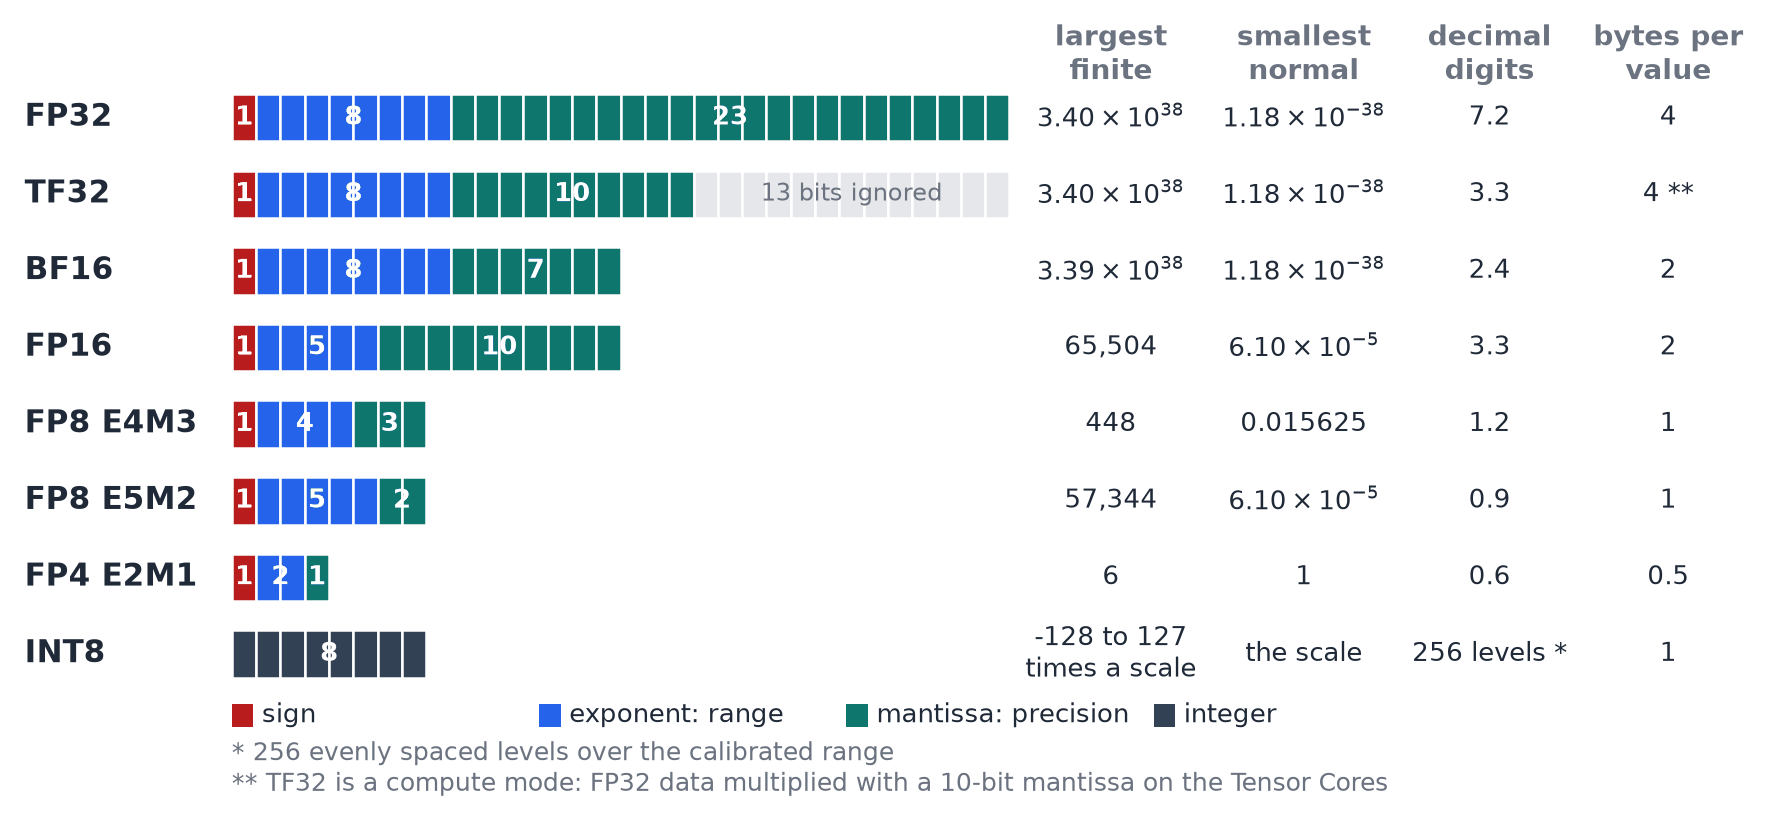
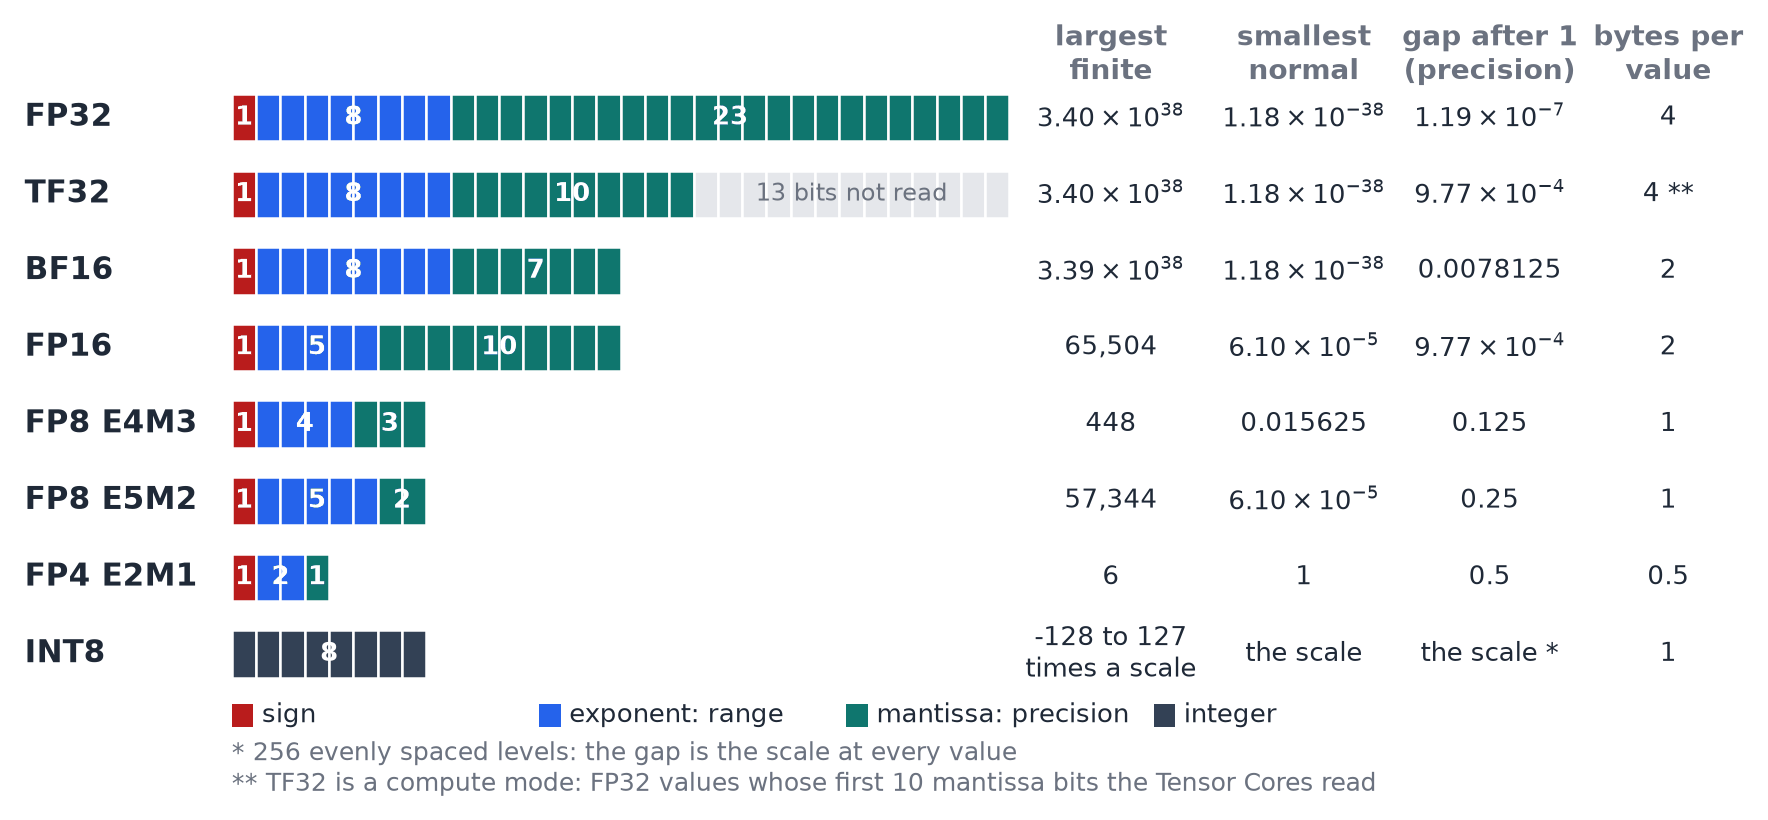
[DOCS] Move Number Formats to the top of the Deployment section as a ### section that teaches the formats: the fields of a floating-point number with the FP16 bits of the pixel coordinate 1000.3 decoded in an animation (README/number_format_decoding.gif), one part per format (FP32, TF32, BF16, FP16,
Claude-Session: https://claude.ai/code/session_016uCt2XTu9R5KcJCjGynGL8

diff --git a/README.md b/README.md
@@ -29,6 +29,7 @@
 - [MLflow Tracking](#mlflow-tracking)
 - [Tutorials](#tutorials)
 - [Deployment](#deployment)
+  - [Number Formats](#number-formats)
   - [Export](#export)
   - [Input Contract](#input-contract)
   - [Triton Server](#triton-server)
@@ -899,6 +900,108 @@ Should you look for what the videos do not show yet, `documentation/tutorial_bac
 
 ## Deployment
 
+### Number Formats
+Before you pick the precision of a served model (`tensorrt_precision` of the [export](#export)) or read why the trainings compute in BF16, this section shows what each number format stores, why it exists, where the repository uses it and what it does to the values of a classifier and a detector. A **bit** is a 0 or a 1, and a format packs every number into a fixed number of bits, from 32 for FP32 down to 4 for FP4: it holds a finite set of values and rounds every other number to the nearest of them. Fewer bits mean less memory to read and faster arithmetic, for a coarser rounding or a smaller range.
+
+#### What A Floating-Point Number Is
+To be able to read the tables of this section, start from how a floating-point format writes a number. Its bits form three fields:
+- the **sign**, one bit: 0 for a positive number, 1 for a negative one;
+- the **exponent**, which picks a power of two: its bits set the **range**, how large and how small a number can get;
+- the **mantissa**, which places the number between that power of two and the next one in equal steps: its bits set the **precision**, how finely neighbouring numbers are spaced.
+
+The value of a normal number is (-1)^sign x 2^(exponent - bias) x (1 + mantissa / 2^m), m being the number of mantissa bits and the bias (15 in FP16) letting the exponent field stand for negative powers too. The pixel coordinate 1000.3 of a 1024-pixel detector input, decoded from the FP16 bits PyTorch stores for it (0x63D1):
+
+<p align="center">
+  <img src="README/number_format_decoding.gif" width="100%" />
+</p>
+
+The 10 mantissa bits of FP16 split the interval between two powers of two into 1,024 equal steps: from 512 to 1024 the **gap** between two neighbouring values is 512 / 1024 = 0.5, so 1000.3 is stored as 1000.5. The gap doubles at every power of two, so the rounding error stays below one part in 2,048 of the value at any magnitude, and the **gap after 1**, the distance from 1 to the next value, gives the precision of a format (0.000977 for FP16). Two limits close the range: a number above the largest value **overflows** to infinity (inf), and a number below the smallest normal value is stored as a **subnormal**, with fewer significant bits, then as 0.
+
+#### The Formats One By One
+If you are looking for what a name such as BF16 or E4M3 stands for, each format below gives its full name, its bits, its largest value and its gap after 1, why it exists, where the repository uses it and when to choose it. The bits are drawn to scale, one cell per bit:
+
+<p align="center">
+  <img src="README/number_formats.png" width="100%" />
+</p>
+
+- **FP32, single precision** (1 + 8 + 23 bits, largest 3.40 x 10^38, gap after 1 1.19 x 10^-7). The default format of PyTorch and the reference of the repository: the weights of every model (`MODEL_DTYPE` of `vision_training/models/model_registry.py`), the test evaluation, and the inputs and outputs of every export (`TYPE_FP32` in `config.pbtxt`). It rounds too, at the eighth significant digit: 1000.3 is stored as 1000.29998779. Keep it for anything compared with a threshold.
+- **TF32, TensorFloat-32** (1 + 8 + 10 bits, largest 3.40 x 10^38, gap after 1 0.000977). A compute mode of the NVIDIA **Tensor Cores**, the GPU units that multiply small blocks of matrices in one instruction, and not a storage type: the values stay FP32 in memory, the Tensor Cores read their sign, their exponent and the first 10 of their 23 mantissa bits, and add the products in FP32 (the **accumulation**, the running sum of a convolution or a matrix multiplication). It runs FP32 code on the Tensor Cores without a change, with the range of FP32 and the precision of FP16. PyTorch leaves it on for convolutions (`torch.backends.cudnn.allow_tf32` is True, `torch.backends.cuda.matmul.allow_tf32` False), so the eager model in the process computes its convolutions in TF32, and TensorRT allows it in "FP32" engines. Choose it for speed, not when two runtimes must match: `export_experiment` of `vision_training/deployment/export_model.py` turns both switches off while it exports and checks, then restores them.
+- **BF16, bfloat16 ("brain floating point")** (1 + 8 + 7 bits, largest 3.39 x 10^38, gap after 1 0.0078125). The first 16 bits of an FP32 number: the range of FP32 in 2 bytes, so a value that fits FP32 fits BF16, rounded to about 2.4 significant decimal digits. Every training and validation forward pass runs under `torch.autocast(..., dtype=torch.bfloat16)` in `run_model_iteration` of `vision_training/trainers/base_trainer.py`: **autocast** computes the convolutions and matrix multiplications in BF16 and keeps the weights, and the operations PyTorch lists as needing precision such as softmax and the losses, in FP32; the test evaluation runs in FP32. Between 512 and 1024 its gap is 4 pixels, so 1000.3 becomes 1000. It is not servable through the ONNX Runtime backend of Triton ([What Is Exported Today](#what-is-exported-today)). Choose it for training; keep thresholds and post-processing in FP32.
+- **FP16, half precision** (1 + 5 + 10 bits, largest 65,504, gap after 1 0.000977). Eight times finer than BF16 near any value, for 3 fewer exponent bits: it overflows above 65,504 and stores values below 6.10 x 10^-5 as subnormals. `tensorrt_precision = "FP16"` in the main block of `export_model.py` writes `precision_mode` "FP16" into `config.pbtxt` (`write_triton_configuration` of `triton_configuration.py`), TensorRT then running FP16 kernels where it finds them faster; the export check never runs that engine. 1000.3 becomes 1000.5 and the area of a 256 x 256 box, 65,536, becomes inf. Choose it to serve CLS and M2M (within 0.03 points of the eager model at 1.9 times the images of TensorRT FP32, [Serving Benchmark Results](#serving-benchmark-results)) once no value inside the model can pass 65,504.
+- **FP8, E4M3 and E5M2** (1 + 4 + 3 bits: largest 448, gap after 1 0.125; 1 + 5 + 2 bits: largest 57,344, gap after 1 0.25). One byte per value, the name counting the exponent (E) and mantissa (M) bits: E4M3 keeps one more mantissa bit, E5M2 the range of FP16, and the TensorRT [quantized types](https://docs.nvidia.com/deeplearning/tensorrt/10.x.x/inference-library/work-quantized-types.html) list E4M3, through explicit quantization only. Without a [scale](#scales-for-int8-and-fp8), the values of a model fall outside or between their few steps: E4M3 has no infinity and PyTorch clamps 1000.3 to 448, E5M2 rounds it to 1,024, and both store 1e-6 as 0. Not implemented: FP8 is not a `precision_mode` of the ONNX Runtime backend.
+- **INT8, 8-bit integer** (8 bits, -128 to 127). Not a floating-point format: 256 evenly spaced levels that a [scale](#scales-for-int8-and-fp8) turns into values, run by the integer Tensor Cores in 1 byte. Not implemented: TensorRT needs [Q/DQ nodes or a calibration table](#scales-for-int8-and-fp8), implicit calibration being deprecated since TensorRT 10.1.
+- **FP4 E2M1** (1 + 2 + 1 bits: 0, 0.5, 1, 1.5, 2, 3, 4 and 6 and their negatives; gap after 1 0.5). Half a byte per value; the published 1 petaFLOP of the [DGX Spark](https://www.nvidia.com/en-us/products/workstations/dgx-spark/) is a theoretical FP4 figure with sparsity. Without a scale, 0.1 becomes 0 and 1000.3 becomes 6. Not implemented.
+
+Block floating point (BFP), where one exponent is shared by a block of values as in the MX formats, is not BF16 and is not used in this repository.
+
+#### The Same Values In Every Format
+Suppose a class threshold, a detector coordinate, two box areas, a box offset and a weight update of the repository are stored in each format: PyTorch 2.14 holds them as follows, written with up to 6 significant digits, or 7 when that is exact (`torch.float16`, `torch.bfloat16`, `torch.float8_e4m3fn` and `torch.float8_e5m2`; the TF32 column rounds the FP32 mantissa to 10 bits, to the nearest value, ties to even).
+
+| Value of the repository | FP32 | TF32 | BF16 | FP16 | FP8 E4M3 | FP8 E5M2 |
+|---|---|---|---|---|---|---|
+| Class threshold 0.999 | 0.999 | 0.999023 | **1** | 0.999023 | 1 | 1 |
+| Pixel coordinate 1000.3 of a 1024-pixel input | 1,000.3 | 1,000.5 | 1,000 | 1,000.5 | 448 | 1,024 |
+| Area of a 256 x 256 box, 65,536 | 65,536 | 65,536 | 65,536 | **inf** | 448 | inf |
+| Area of a 300 x 300 box, 90,000 | 90,000 | 89,984 | 90,112 | inf | 448 | inf |
+| Box offset 0.1 | 0.1 | 0.0999756 | 0.100098 | 0.0999756 | 0.1015625 | 0.09375 |
+| Weight update 1e-6 | 1e-6 | 1.00024e-6 | 9.98378e-7 | 1.01328e-6 (subnormal) | 0 | 0 |
+| Weight 0.1 after that update | **0.100001** | 0.0999756 | 0.100098 | 0.0999756 | 0.1015625 | 0.09375 |
+
+The same values on the number line of every format, with the gap of the format around each one:
+
+<p align="center">
+  <img src="README/number_format_examples.png" width="100%" />
+</p>
+<p align="center"><em>Every lane holds the values of one format (ticks, or a bar where they are too close to draw apart); the dot is the stored value, and an arrow marks a value stored outside the window: 448 for E4M3, which has no infinity, inf above the largest value, 0 below the smallest.</em></p>
+
+The gap of each format at every magnitude, from 10^-6 to 10^7:
+
+<p align="center">
+  <img src="README/number_format_rounding.png" width="100%" />
+</p>
+<p align="center"><em>Gap between neighbouring representable values: a value is rounded by up to half of it, and the format overflows past the cross. The dotted lines mark values of this repository: a class threshold, a pixel coordinate of a 1024-pixel input and the area of a 256 x 256 box.</em></p>
+
+#### What These Numbers Mean
+Each time a model moves to a reduced precision, check its values against these cases of the repository:
+- **BF16 turns the threshold 0.999 into 1.** Near 1 its values are 0.99609375 and 1, so the probabilities 0.9985 and 0.9995 both read 1 and a threshold of 0.999 can no longer separate them: thresholds, such as those of the logit temperature of the [export](#export), and post-processing stay in FP32, as the test evaluation does.
+- **FP16 makes the area of a 256 x 256 box infinite.** The NMS exported inside the detector overflowed FP16 twice: its greedy NMS moved the boxes of every image and class apart by about 1,025 pixels per group, so the coordinates passed 65,504 from about the 64th group and duplicates stayed (run_9 lost 7.88 points of mAP@0.5 with TensorRT FP16), and its DIoU-NMS computed areas in pixels, infinite from 256 x 256 pixels. One NonMaxSuppression batch per group (`suppress_stacked_groups` of `vision_training/models/detection/postprocessing.py`) and boxes in fractions of the image fixed both, the FP16 engine then reading +0.21 points against the eager model ([Serving Benchmark Results](#serving-benchmark-results)). Every sum, area or offset computed inside a model served in FP16 must stay below 65,504.
+- **TF32 moves scores by about 1e-3.** That is ten times the 1e-4 the export accepts on probabilities and scores (`comparison_tolerances` of `vision_training/deployment/export_specifications.py`), so `export_experiment` turns TF32 off and compares the exports with an eager reference in exact FP32 (its comment on `allow_tf32`).
+- **A weight update of 1e-6 vanishes in a 16-bit weight.** Added to a weight of 0.1, it leaves the BF16 and FP16 weight unchanged, their gaps there being 0.000488 and 0.000061, while FP32 holds 0.100001: autocast keeps the weights in FP32 and computes only the forward passes in BF16.
+- **INT8 and FP8 need a scale.** Stored as they are, 0.1 becomes 0.1016 in E4M3 and 0 as an integer; with one scale for a tensor between -6 and 6, INT8 stores it as 2 and reads it back as 0.0945 ([Scales For INT8 And FP8](#scales-for-int8-and-fp8)).
+
+#### Scales For INT8 And FP8
+Should a model run in INT8 or FP8, every tensor first needs a **scale**, the number its stored values are multiplied by to give back real values:
+- **Scale.** For a tensor whose values stay between -6 and 6, the scale 6 / 127 = 0.0472 maps 6 to the integer 127: 0.1 is stored as round(0.1 / 0.0472) = 2 and read back as 0.0945, 2.5 as 53 and read back as 2.504, every value moving by at most half the scale, 0.0236. TensorRT rounds to the nearest integer, ties to even, and clips to -128 and 127.
+- **Zero point.** An integer added to the stored values so that a range not centred on 0, such as 0 to 6 after a ReLU, uses all 256 levels. TensorRT quantizes symmetrically, with a scale only.
+- **Per tensor or per channel.** One scale for a whole tensor suits activations; weights get one scale per output channel, as TensorRT recommends. After folding its batch normalization into the weights, as TensorRT and ONNX Runtime do, the first convolution of the second backbone block of the README classifier (`backbone.convolution_blocks.1`, 32 output channels) has a largest weight of 0.24 in its narrowest channel and of 1.88 in its widest: one scale for the tensor leaves the narrowest channel 16 of the 127 positive levels, one scale per channel gives every channel all 127.
+- **Calibration.** Choosing the scales of the activations from data: TensorRT runs representative images through the model, about 500 for an ImageNet classifier, and records the range of every tensor. This implicit quantization is deprecated since TensorRT 10.1.
+- **Q/DQ nodes.** QuantizeLinear and DequantizeLinear nodes written into the ONNX graph, each with its scale, marking where a tensor becomes INT8 or FP8 and where it returns to a wider format; TensorRT converts exactly where they say (explicit quantization), the only path to FP8 and FP4.
+
+None of this is implemented: the export writes neither Q/DQ nodes nor a calibration table, `tensorrt_precision` documents only "FP32", "FP16" and None (the temperature explorer refuses any other value), the ONNX Runtime backend of Triton has no FP8 `precision_mode`, and the export check never runs a TensorRT engine ([What Is Exported Today](#what-is-exported-today)).
+
+#### Summary Of The Formats
+In case you need the facts of one format again, here they are, computed by PyTorch (TF32 and FP4 from their bit layouts):
+
+| Format | Full name | Bits (sign + exponent + mantissa) | Largest value | Gap after 1 | Used in this repository for |
+|---|---|---|---|---|---|
+| FP32 | single precision (IEEE 754 binary32) | 1 + 8 + 23 | 3.40 x 10^38 | 1.19 x 10^-7 | weights, test evaluation, post-processing, inputs and outputs of every export |
+| TF32 | TensorFloat-32 | 1 + 8 + 10, read from FP32 values | 3.40 x 10^38 | 0.000977 | convolutions of the eager model (PyTorch default) and TensorRT "FP32" engines; off in the export |
+| BF16 | bfloat16, "brain floating point" | 1 + 8 + 7 | 3.39 x 10^38 | 0.0078125 | training and validation forward passes (autocast of `base_trainer.py`) |
+| FP16 | half precision (IEEE 754 binary16) | 1 + 5 + 10 | 65,504 | 0.000977 | `tensorrt_precision = "FP16"`, served without check |
+| FP8 E4M3 | 8-bit floating point, 4 exponent bits, 3 mantissa bits | 1 + 4 + 3 | 448 | 0.125 | not implemented |
+| FP8 E5M2 | 8-bit floating point, 5 exponent bits, 2 mantissa bits | 1 + 5 + 2 | 57,344 | 0.25 | not implemented |
+| INT8 | 8-bit integer | 8 (integer) | 127 times the scale | the scale | not implemented |
+| FP4 E2M1 | 4-bit floating point, 2 exponent bits, 1 mantissa bit | 1 + 2 + 1 | 6 | 0.5 | not implemented |
+
+#### Weight Memory And Bandwidth
+For a served model to read less memory at every request, a reduced precision also shrinks its weights and activations. The weights of four saved runs, counted from their model state (weights and batch normalization statistics):
+
+<p align="center">
+  <img src="README/model_weight_sizes.png" width="100%" />
+</p>
+
+The DGX Spark gives its GPU 273 GB/s of memory bandwidth shared with the CPU ([specifications](https://www.nvidia.com/en-us/products/workstations/dgx-spark/)), so halving the bytes of weights and activations halves the traffic of a memory-bound layer; TensorRT FP16 serves 1.9 times the images of TensorRT FP32 at batch 16 on CLS and M2M, and DET serves 189 images per second with both since the fix of its exported NMS ([Serving Benchmark Results](#serving-benchmark-results)).
+
 ### Export
 When a run is ready to be served, `vision_training/deployment/export_model.py` writes it to the Triton model repository as TorchScript and ONNX, with the Triton configuration of every model, and checks every export against the PyTorch model, the served models being replaced only once every format matches. Set `experiment_folder`, `iteration`, `use_averaged_weights`, `formats`, `maximum_batch_size` and `tensorrt_precision` (`"FP16"`, `"FP32"`, or `None` for ONNX Runtime CUDA only) in its main block, then run:
 
@@ -964,7 +1067,7 @@ docker compose up
 <p align="center"><em>The 9-class README classifier (512 pixels) exported with TensorRT FP32, measured on 2026-10-23 while three trainings shared the GPU (item 28 of <code>documentation/suggestions.md</code>): lower than the model gives alone, to measure again on an idle GPU.</em></p>
 
 ### Serving Formats And Precision
-Before a model goes to production, its serving path and its number format decide its latency, its throughput, its memory and how far its outputs move from the FP32 model that was evaluated. This part states what the repository exports today, what Triton, TensorRT and the reduced precisions add and cost on the DGX Spark of the measurements (GB10 GPU; the Triton image `26.01-py3` ships Triton 2.65.0, CUDA 13.1.1 and TensorRT 10.14.1, [release notes](https://docs.nvidia.com/deeplearning/triton-inference-server/archives/triton-inference-server-2670/release-notes/rel-26-01.html)), and what the [serving benchmark](documentation/architecture_benchmarking/serving_benchmark_plan.md) of 2026-11-17 measured on the idle GPU.
+Before a model goes to production, its serving path and its number format decide its latency, its throughput, its memory and how far its outputs move from the FP32 model that was evaluated. This part states what the repository exports today, what Triton, TensorRT and the [reduced precisions](#number-formats) add and cost on the DGX Spark of the measurements (GB10 GPU; the Triton image `26.01-py3` ships Triton 2.65.0, CUDA 13.1.1 and TensorRT 10.14.1, [release notes](https://docs.nvidia.com/deeplearning/triton-inference-server/archives/triton-inference-server-2670/release-notes/rel-26-01.html)), and what the [serving benchmark](documentation/architecture_benchmarking/serving_benchmark_plan.md) of 2026-11-17 measured on the idle GPU.
 
 #### What Is Exported Today
 If you are looking for what can be deployed without new code, here is what `export_model.py` and `triton_configuration.py` write. The inputs and outputs of every served model stay float32 (`TYPE_FP32` in `config.pbtxt`) whatever the precision: it only changes the computation inside the engine, so a request keeps its size.
@@ -1020,36 +1123,6 @@ With one client sending batches of 16 images over shared memory, TensorRT FP32 s
 - **"FP32" is not exact FP32.** TensorRT allows TF32 Tensor Cores by default, as PyTorch does for convolutions; the export turns TF32 off for its reference only.
 
 Native engines (`model.plan` served by `tensorrt_plan`) are not implemented: they would be built at export with explicit optimization profiles of the batch sizes, instead of at the first requests, but on the GPU and with the TensorRT version of the server.
-
-#### Number Formats
-In case you consider FP16 or a lower precision for a served model, the bits of each format decide the range it holds (exponent) and its rounding (mantissa); every value below follows from the format.
-
-<p align="center">
-  <img src="README/number_formats.png" width="100%" />
-</p>
-
-| Format | In the repository | Gains | Risks |
-|---|---|---|---|
-| FP32 | weights, inputs and outputs of every export; every evaluation | the reference | 4 bytes per value |
-| TF32 | PyTorch convolutions and TensorRT "FP32" engines by default; off in the export check | FP32 range on the Tensor Cores, nothing to change in the model | 10-bit mantissa: scores about 1e-3 from exact FP32 (comment of `export_experiment`) |
-| BF16 | forward passes of every training (autocast of `base_trainer.py`); not servable through the ONNX Runtime backend of Triton | range of FP32, no overflow; the models already trained with BF16 activations; 2 bytes | 2.4 decimal digits: pixel coordinates on a grid of 4 pixels between 512 and 1024 and of 8 pixels from 1024 to 2048; probabilities near 1 in steps of 0.0039, so a threshold of 0.999 falls between 0.996 and 1: post-processing must stay FP32 |
-| FP16 | `tensorrt_precision = "FP16"`, served without check | 2 bytes on the Tensor Cores, 3.3 digits against 2.4 for BF16 | overflow above 65,504: computed in FP16, the area of a box of 256 x 256 pixels or more is infinite, as were the areas and the group offsets of the exported detector NMS before the serving benchmark had them fixed; values below 6.1e-5 lose precision; coordinates on a grid of 0.5 pixel between 512 and 1024 and of 1 pixel from 1024 to 2048 |
-| FP8 E4M3, E5M2 | not implemented: explicit quantization only, not a `precision_mode` of the ONNX Runtime backend | 1 byte | E4M3 overflows above 448 and keeps 1.2 digits: needs a scale per tensor |
-| INT8 | not implemented: needs Q/DQ nodes or a calibration table, implicit calibration being deprecated since TensorRT 10.1 ([quantized types](https://docs.nvidia.com/deeplearning/tensorrt/10.x.x/inference-library/work-quantized-types.html); about 500 images calibrate an ImageNet classifier) | 1 byte, integer Tensor Cores | 256 levels per tensor or channel: wide ranges such as heatmaps and box offsets lose resolution |
-| FP4 E2M1 | not implemented | half a byte; the published 1 petaFLOP of the [DGX Spark](https://www.nvidia.com/en-us/products/workstations/dgx-spark/) is a theoretical FP4 figure with sparsity | 8 values per sign, from 0 to 6 |
-
-<p align="center">
-  <img src="README/number_format_rounding.png" width="100%" />
-</p>
-<p align="center"><em>Gap between neighbouring representable values: a value is rounded by up to half of it, and the format overflows past the cross. The dotted lines mark values of this repository: a class threshold, a pixel coordinate of a 1024-pixel input and the area of a 256 x 256 box.</em></p>
-
-A reduced precision also shrinks the memory the model reads at every request. The weights of four saved runs, counted from their model state (weights and batch normalization statistics):
-
-<p align="center">
-  <img src="README/model_weight_sizes.png" width="100%" />
-</p>
-
-The DGX Spark gives its GPU 273 GB/s of memory bandwidth shared with the CPU ([specifications](https://www.nvidia.com/en-us/products/workstations/dgx-spark/)), so halving the bytes of weights and activations halves the traffic of a memory-bound layer; on these models TensorRT FP16 serves 1.6 to 1.9 times the images of TensorRT FP32 at batch 16 (table below).
 
 #### Serving Benchmark Results
 Should you pick a serving path for a model, the [serving benchmark](documentation/architecture_benchmarking/serving_benchmark_plan.md) measured each one on 2026-11-17 on the idle GPU, every cell giving CLS / DET / M2M: the 9-class README classifier (512 pixels), the detection benchmark run_9 (1024 pixels, NMS inside the model) and the sequence labelling tutorial run (counted in frames, 7 per sequence). The Triton rows use the exported configuration (dynamic batching on, one instance) and system shared memory; "Best" is the highest throughput over batches of 1, 4 and 16 and 1, 4 and 16 requests in flight (one caller in the process); the memory is the drop of available memory of the whole server or process; the test metric is the headline metric of the test split (CLS and M2M accuracy, DET mAP@0.5 of the detections above the deployment score threshold 0.5) in points against the eager model. To run the two drivers again, `scripts/deployment/benchmark_serving_formats.py` and `scripts/deployment/evaluate_served_formats.py`, see their settings in the [tools reference](documentation/reference/tools_reference.md#serving-benchmark).
